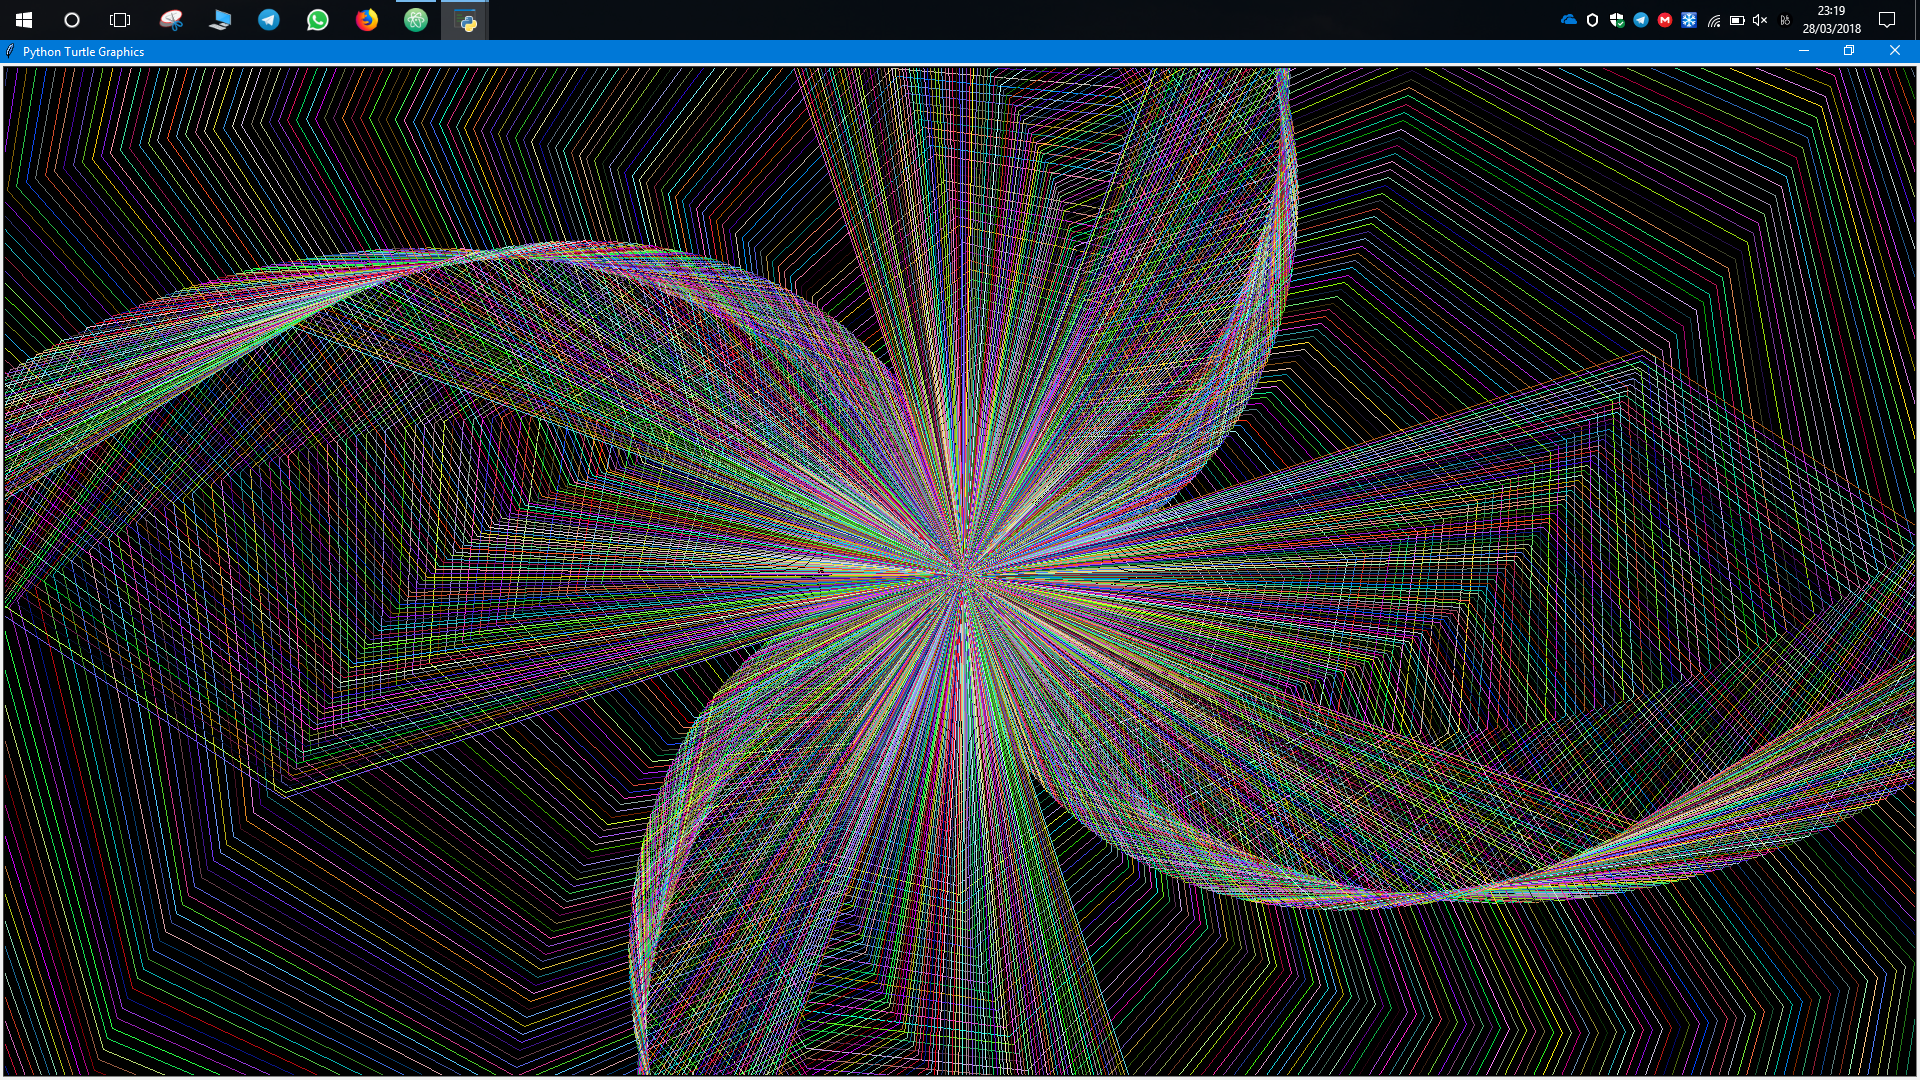
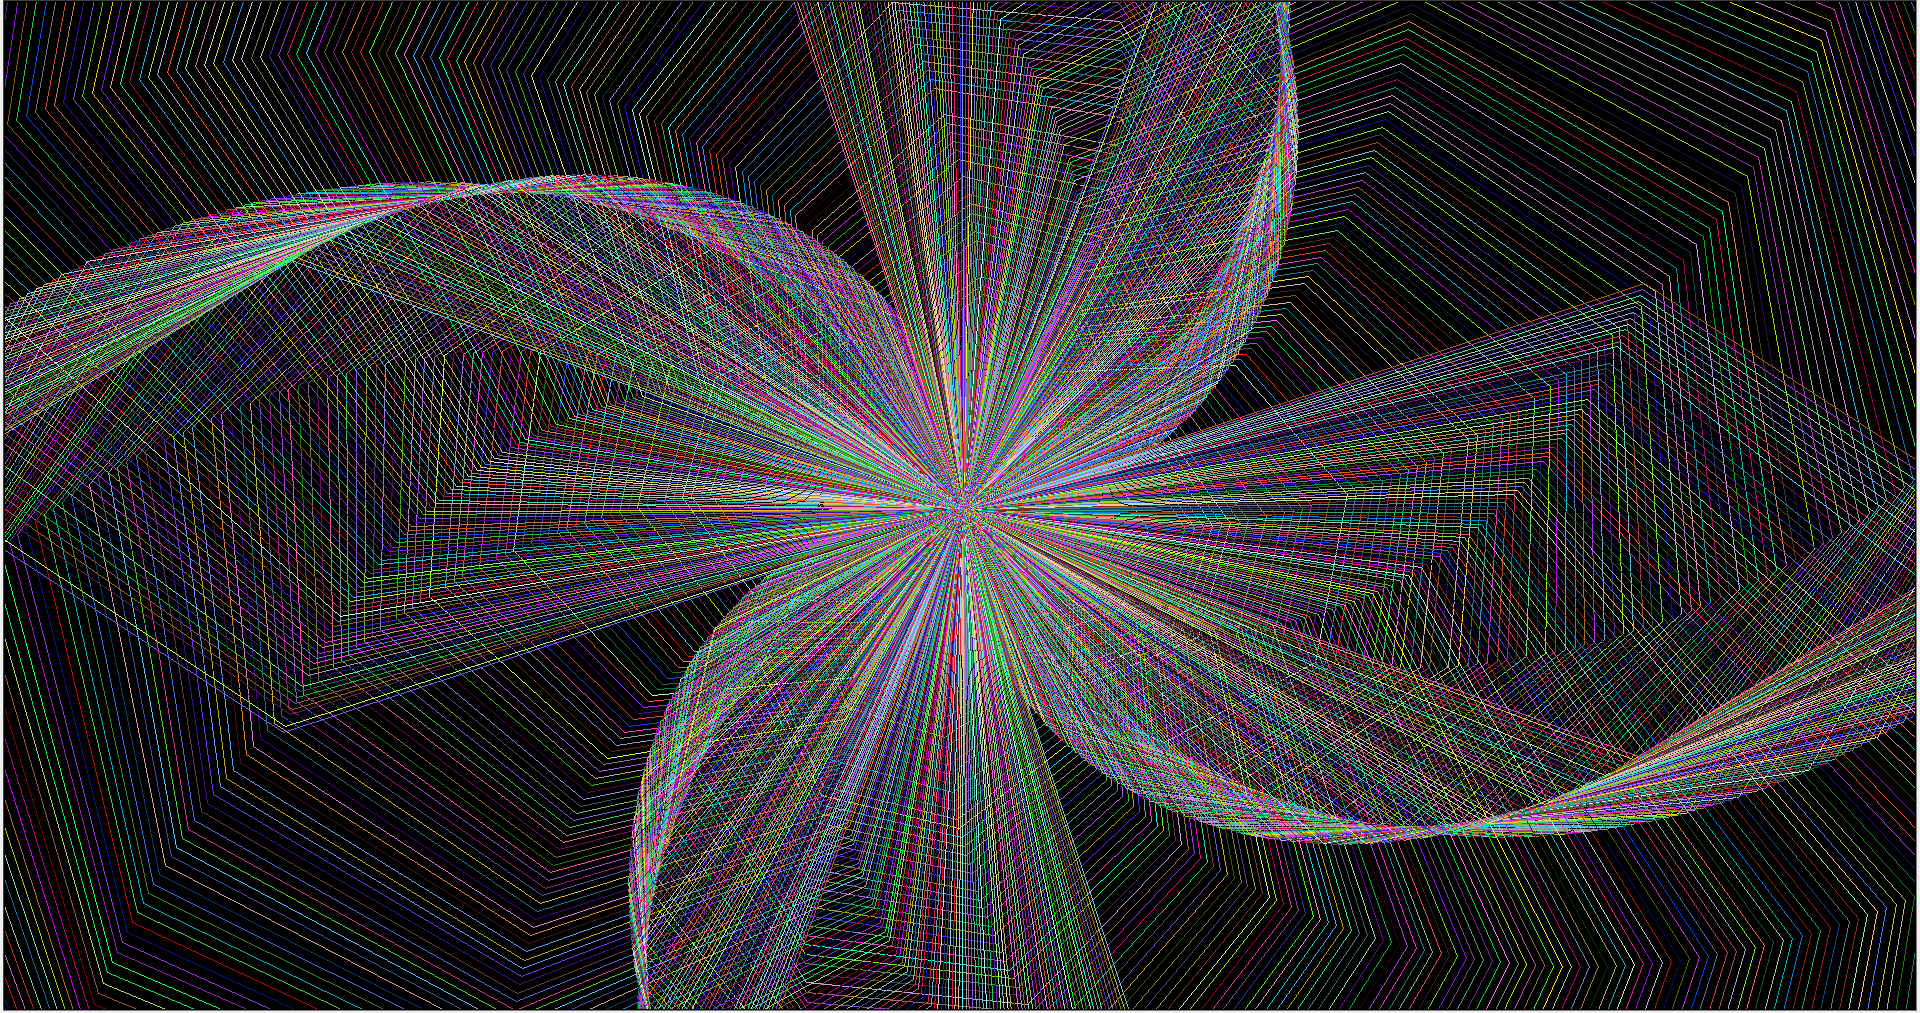
ADD 6

diff --git a/turtle_6.py b/turtle_6.py
@@ -9,6 +9,7 @@ turtle.colormode(255)
 ob.hideturtle()
 k=15
 ob.pensize(k)
+turtle.tracer(0, 0)
 
 for i in range(2000):
     r = rand(0, 255)
@@ -20,5 +21,7 @@ for i in range(2000):
         ob.pensize(k)
     ob.forward(0 + i)
     ob.left(91)
+
+turtle.update()
 
 turtle.done()

diff --git a/README.md b/README.md
@@ -6,3 +6,4 @@ Test with Turtle
 ![alt text](img/3.png "Turtle_3")
 ![alt text](img/4.png "Turtle_4")
 ![alt text](img/5.png "Turtle_5")
+![alt text](img/6.png "Turtle_6")
